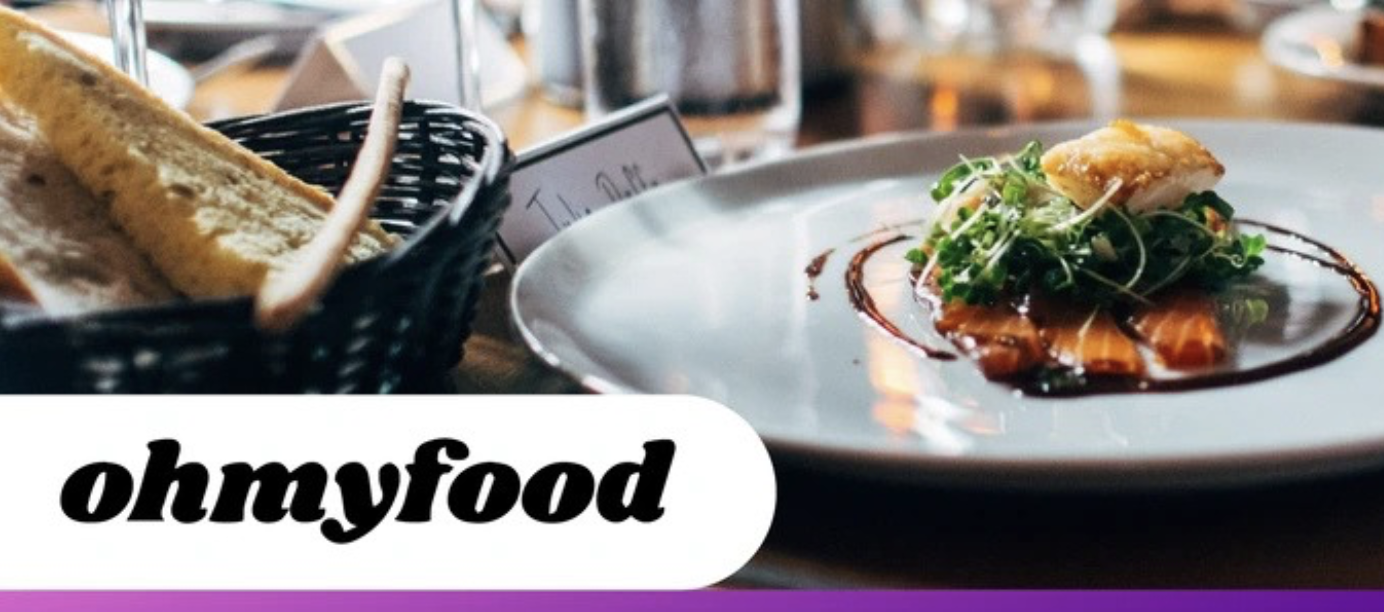
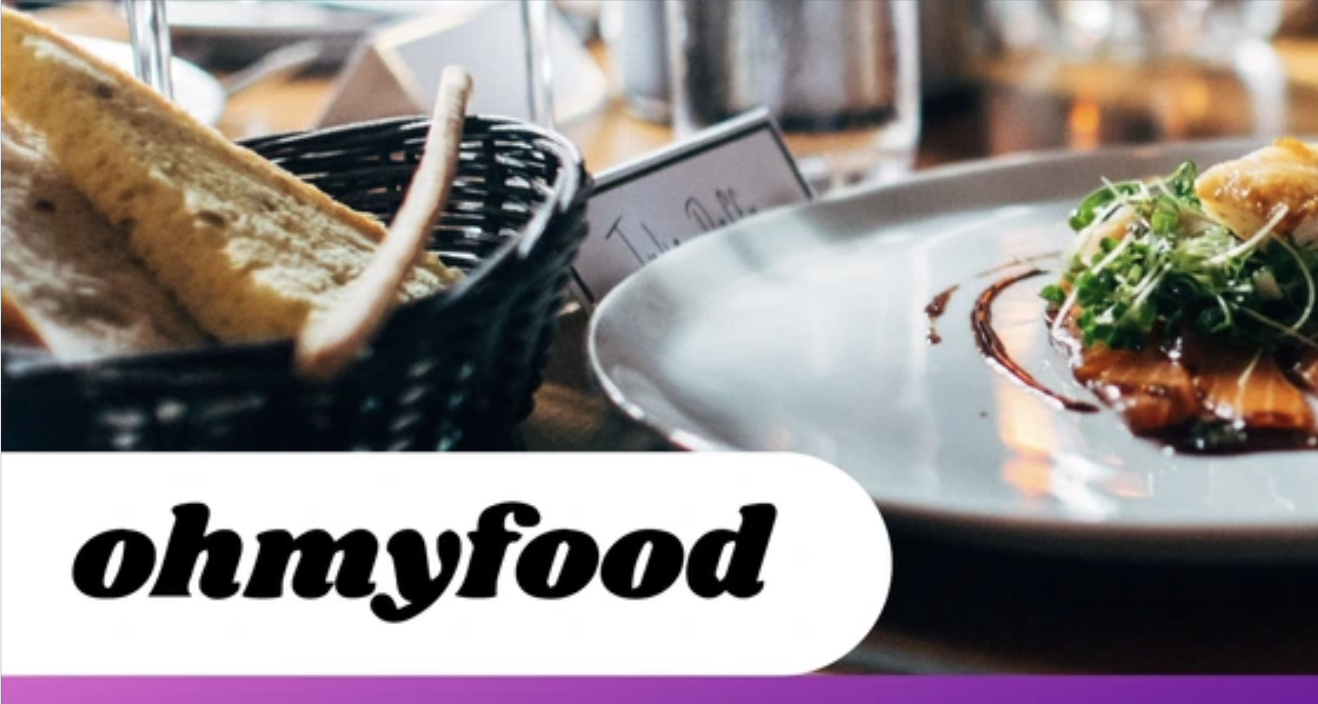
redimensionnement des images

diff --git a/src/styles/Skills.scss b/src/styles/Skills.scss
@@ -80,9 +80,7 @@ $text-color: #333;
 .logo-container {
   position: relative;
   width: 100px;
-  height: 100px;
   cursor: pointer;
-  border-radius: 50%;
   margin-top: 1.5rem;
   transition: transform 0.3s ease, opacity 0.3s ease;
   display: flex;
@@ -99,7 +97,6 @@ $text-color: #333;
     border-radius: 50%;
     box-shadow: 0 0 8px rgba(255, 255, 255, 0.8),
       0 0 30px rgba(255, 255, 255, 0.8), 0 0 80px rgba(255, 255, 255, 0.8);
-    animation: rotate 2s linear infinite;
     z-index: -1;
   }
 
@@ -110,14 +107,12 @@ $text-color: #333;
 
   img.rotating-logo {
     width: 100%;
-    height: 100%;
     border-radius: 50%;
     opacity: 0.7;
 
     &:hover {
       opacity: 1;
     }
-    z-index: 1;
   }
 }
 

diff --git a/index.html b/index.html
@@ -3,7 +3,7 @@
   <head>
     <meta charset="UTF-8" />
     <title>Portfolio Patrycja Wierzbicka</title>
-    <link rel="icon" type="image/x-icon" href="../favicon.ico" />
+    <link rel="icon" type="image/x-icon" href=".././favicon.ico" />
     <meta name="viewport" content="width=device-width, initial-scale=1.0" />
     <meta name="description" content="Patrycja Wierzbicka - Développeuse Web" />
 

diff --git a/src/styles/ProjectCard.scss b/src/styles/ProjectCard.scss
@@ -21,6 +21,8 @@
 
     img {
       width: 100%;
+      height: 100%; /* S'assure que l'image prend toute la hauteur */
+      object-fit: cover; /* Permet à l'image de remplir la carte sans déformation */
     }
   }
 }

diff --git a/src/components/ProjectCard.jsx b/src/components/ProjectCard.jsx
@@ -1,4 +1,3 @@
-// ProjectCard.js
 import React from "react";
 import "../styles/ProjectCard.scss";
 
